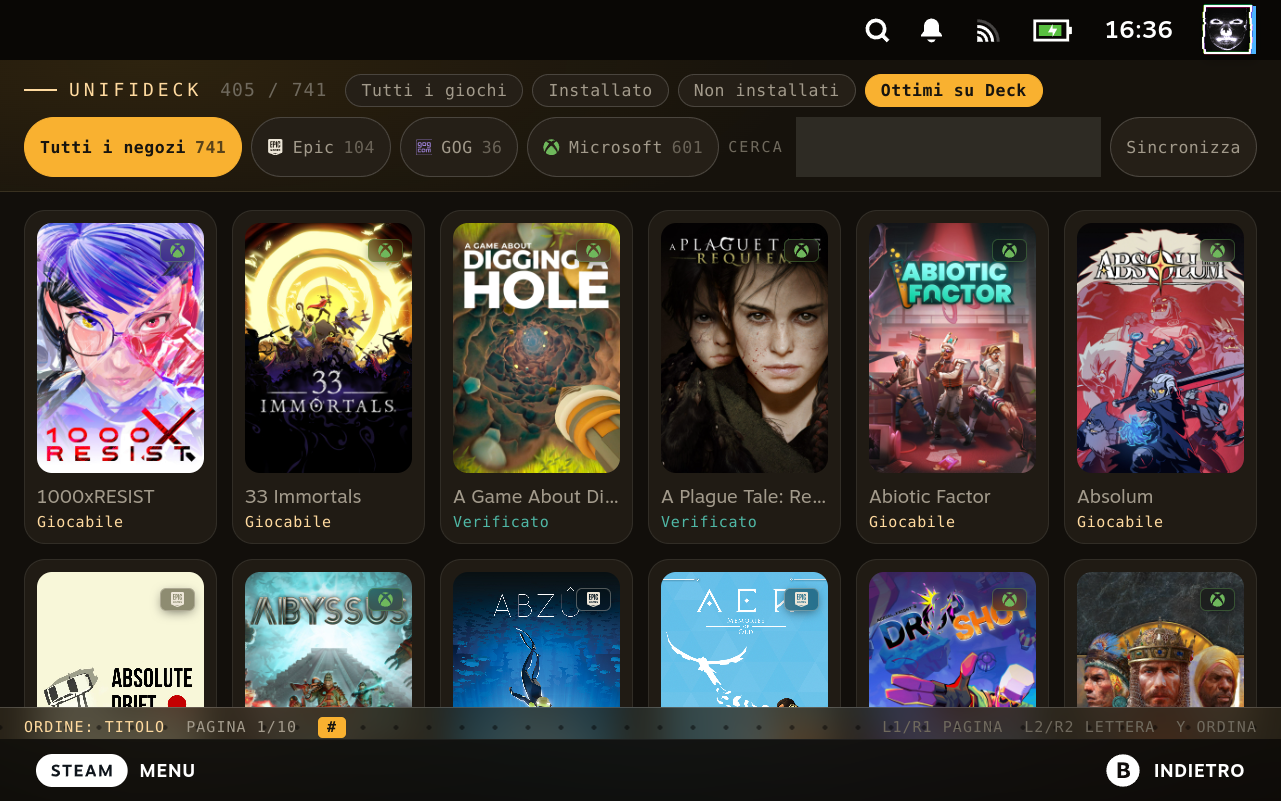
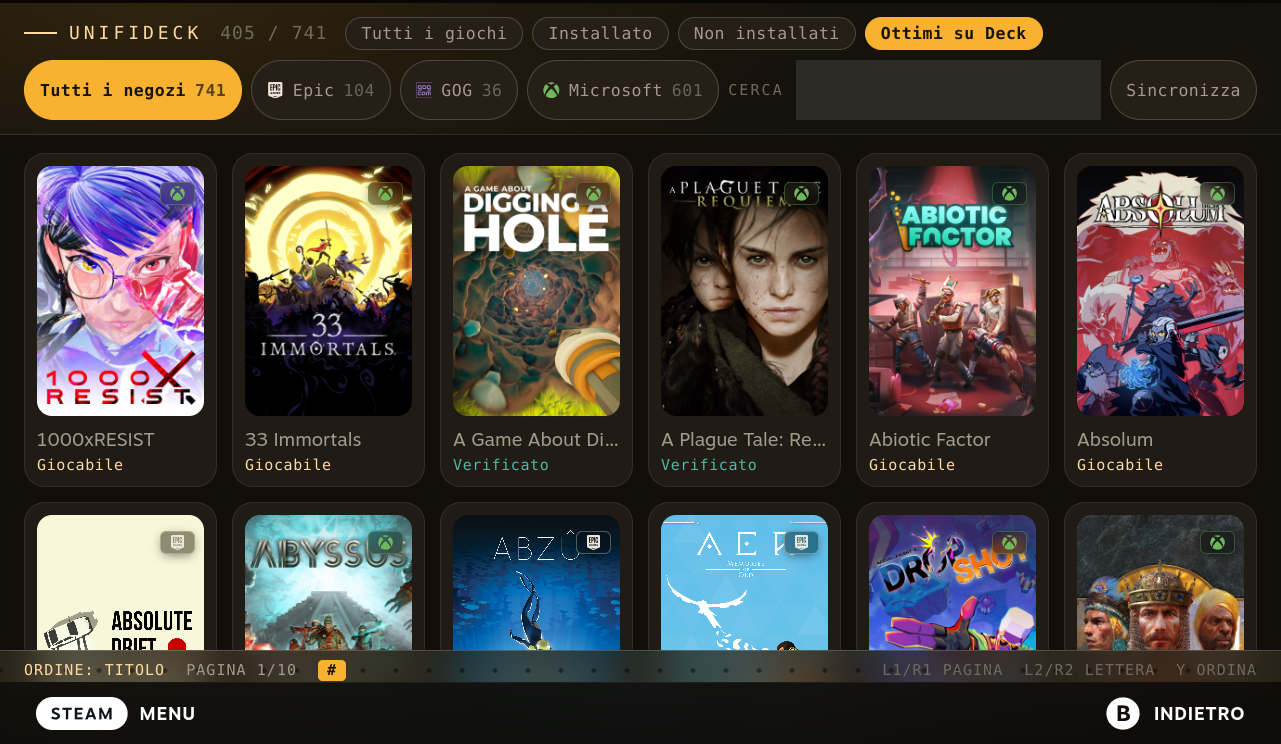
screenshot senza la barra personale, e i confini di cio che manteniamo
Le schermate mostravano avatar Steam, orologio e batteria. Ritagliata la
barra di stato: le copertine restano, che sono arte pubblica e per giunta
un catalogo Game Pass che ha chiunque abbia l'abbonamento. La parte
personale era quella barra.

E il README ora dice dove cade la linea, in cima e in una sezione
dedicata. Questo fork e uno strato sottile sul plugin di qualcun altro:
store, downloader, launcher, Proton, cloud save e artwork sono suoi e non
si mantengono qui. Chi ha un problema con quelli va segnalato a monte,
altrimenti si ritarda solo la persona che puo davvero risolverlo.

Qui si mantiene la pagina catalogo e i quattro difetti trovati
costruendola, con i link alle segnalazioni. Sono corretti qui perche
questa Deck ne aveva bisogno, non come rivendicazione: se monte li
accoglie diventano ridondanti, ed e il risultato migliore.

diff --git a/README.md b/README.md
@@ -12,6 +12,11 @@ doing so.
 > [mubaraknumann/unifideck](https://github.com/mubaraknumann/unifideck). Install
 > that one. This fork exists for one Deck, tracks upstream `Release-0.7.3`, and
 > is not a distribution.
+>
+> **Bugs in Unifideck itself belong
+> [upstream](https://github.com/mubaraknumann/unifideck/issues), not here.**
+> Only the catalogue page and the four fixes listed under
+> [Scope](#scope-and-what-this-fork-does-not-fix) are maintained in this repo.
 
 ---
 
@@ -195,6 +200,42 @@ in English and Italian, and fall back to English elsewhere.
 
 *From the original project.* TypeScript + React on `@decky/ui`, Python backend
 on a five-layer architecture with an EventBus and service DI, vitest and pytest.
+
+---
+
+## Scope, and what this fork does not fix
+
+This is a thin layer on someone else's plugin, and it is worth being precise
+about where the line falls.
+
+**Unifideck does the hard parts.** Store authentication and catalogues, the
+downloader, the launcher, Proton and prefix handling, cloud saves, the artwork
+pipeline, the Steam shortcut machinery — none of that is this fork's work, and
+none of it is maintained here.
+
+**Bugs in any of that belong upstream**, at
+[mubaraknumann/unifideck/issues](https://github.com/mubaraknumann/unifideck/issues).
+A game that will not install, a store that will not authenticate, a title
+missing after a sync, artwork that never arrives: those are Unifideck's, and
+reporting them here would only delay the person who can actually fix them.
+
+**What is maintained here** is the short list this fork actually changed: the
+standalone catalogue page and its routing, and the four defects below.
+
+Those four were found while building the page, and were reported upstream
+rather than kept:
+
+| Defect | Upstream |
+| --- | --- |
+| Failed store fetch wipes the library and its shortcuts | [#405](https://github.com/mubaraknumann/unifideck/issues/405) |
+| Config schema rejects the `steam` section the plugin writes | [#430](https://github.com/mubaraknumann/unifideck/issues/430) |
+| `SteamBridge` calls a Steam API that no longer exists | [#431](https://github.com/mubaraknumann/unifideck/issues/431) |
+| `Game` type does not match the backend dataclass | [#432](https://github.com/mubaraknumann/unifideck/issues/432) |
+
+They are fixed here because this Deck needed them working, not as a claim on
+them. If upstream takes them, the fixes here become redundant and that is the
+better outcome — a fix in Unifideck reaches everyone who uses it, and this fork
+reaches one Steam Deck.
 
 ---
 
